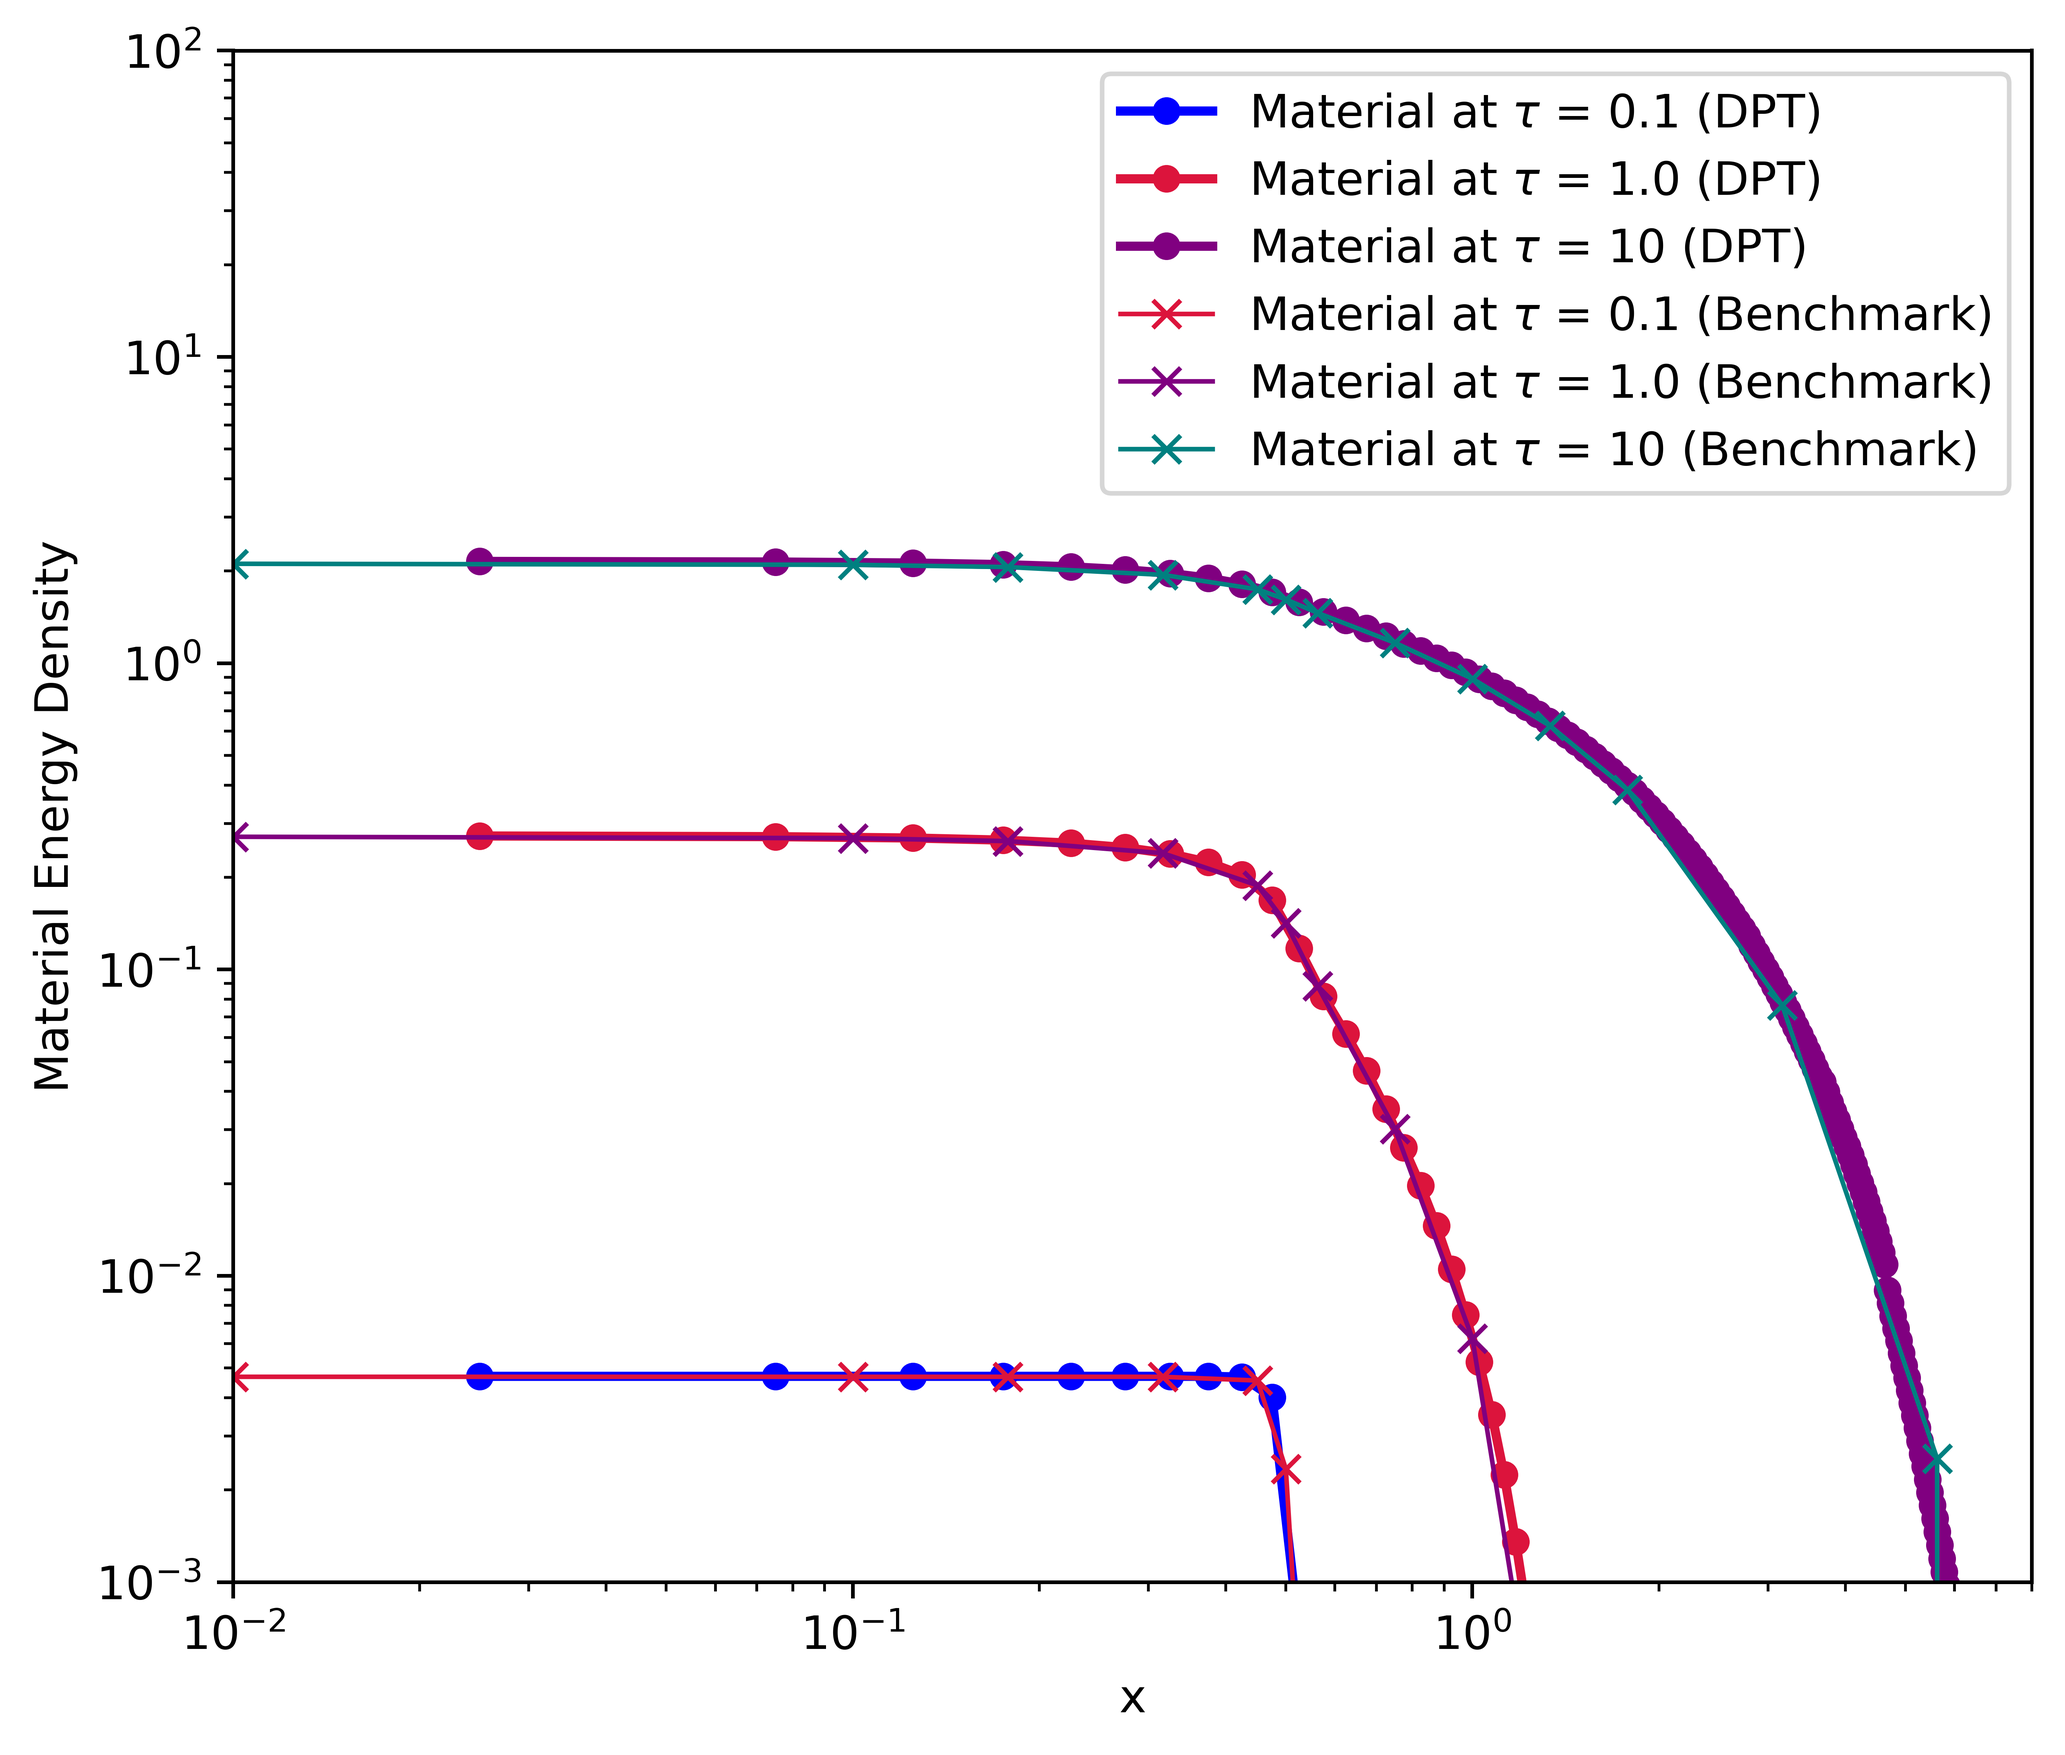
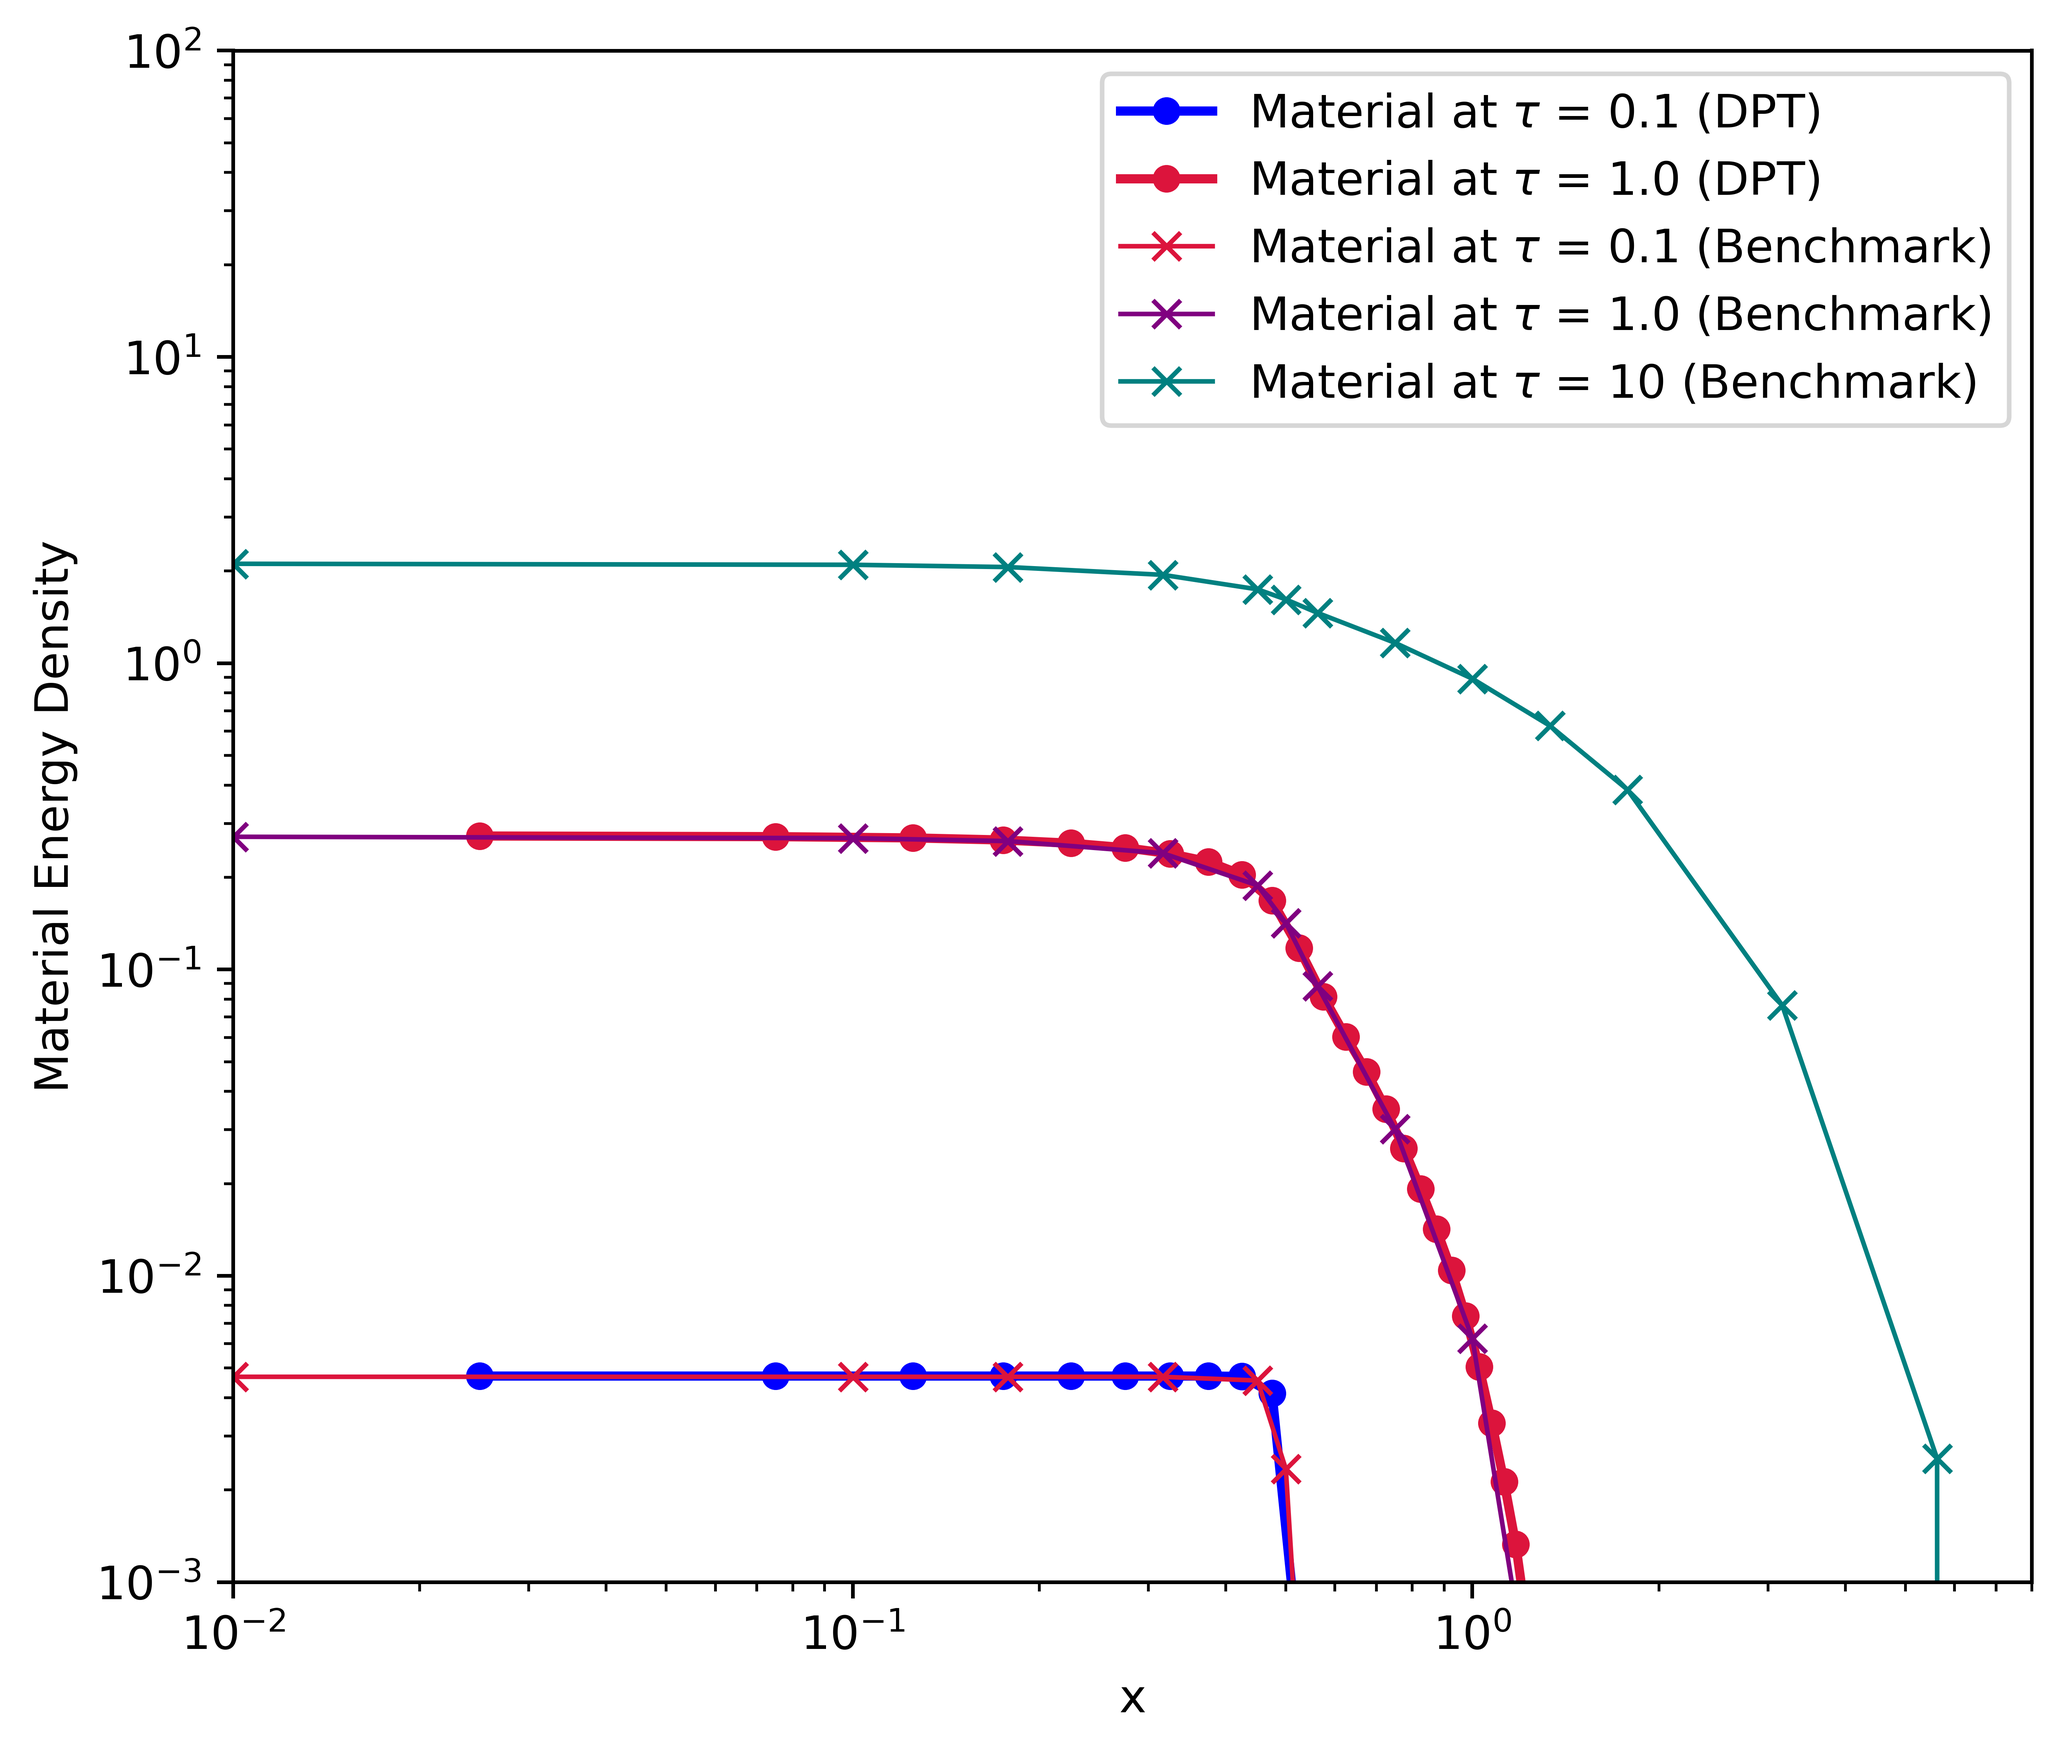
new scattering method

diff --git a/python/src/imc_track.py b/python/src/imc_track.py
@@ -2,12 +2,106 @@
 
 import numpy as np
 from numba import njit, jit, objmode, gdb
+from scipy.optimize import newton
+import matplotlib.pyplot as plt
 
 import imc_global_mat_data as mat
 import imc_global_mesh_data as mesh
 import imc_global_part_data as ptcl
 import imc_global_phys_data as phys
 import imc_global_time_data as time
+
+@njit
+def brent_solver(f, a, b, tol=1e-5, max_iter=100):
+    """
+    Brent's Method for finding roots of a scalar function.
+
+    Parameters:
+        f (function): The function for which the root is sought.
+        a (float): Lower bound of the initial bracket.
+        b (float): Upper bound of the initial bracket.
+        tol (float): Tolerance for convergence.
+        max_iter (int): Maximum number of iterations.
+
+    Returns:
+        float: The root of the function.
+    """
+    fa = f(a)
+    fb = f(b)
+
+    if fa * fb > 0:
+        raise ValueError("The function must have different signs at a and b.")
+
+    if abs(fa) < abs(fb):
+        a, b = b, a
+        fa, fb = fb, fa
+
+    c, fc = a, fa
+    d = e = b - a  # Distance between a and b
+    for _ in range(max_iter):
+        if fb != 0 and fc != 0 and fa != 0:  # Use inverse quadratic interpolation
+            s = a * fb * fc / ((fa - fb) * (fa - fc)) + \
+                b * fa * fc / ((fb - fa) * (fb - fc)) + \
+                c * fa * fb / ((fc - fa) * (fc - fb))
+        else:  # Fall back to secant method
+            s = b - fb * (b - a) / (fb - fa)
+
+        # Conditions to accept the interpolation point
+        cond1 = not (a < s < b if a < b else b < s < a)
+        cond2 = abs(s - b) >= abs(b - c) / 2
+        cond3 = abs(s - b) >= abs(c - d) / 2 if e != d else False
+        cond4 = abs(b - c) < tol
+
+        if cond1 or cond2 or cond3 or cond4:
+            # Bisection step
+            s = (a + b) / 2
+            d = e = b - a
+
+        fs = f(s)
+        d, e = e, d  # Update step sizes
+
+        # Update points for next iteration
+        c, fc = b, fb
+        if fa * fs < 0:
+            b, fb = s, fs
+        else:
+            a, fa = s, fs
+
+        if abs(fb) < abs(fa):
+            a, b = b, a
+            fa, fb = fb, fa
+
+        # Check convergence
+        if abs(b - a) < tol or abs(fb) < tol:
+            return b
+
+    raise RuntimeError("Brent's method did not converge.")
+
+@njit
+def p_x_t_solve(dx, x_0, x_1, x, t, t_0, t_1, dt, X_s, T_s):
+    @njit
+    def f(chi):
+        numerator = 1.0 - chi * x_0 + np.exp(chi * dx) * (chi * x_1 - 1.0)
+        denominator = chi * (np.exp(chi * dx) - 1.0)
+        return numerator / denominator - X_s
+
+    @njit
+    def g(tau):
+        numerator = 1.0 - tau * t_0 + np.exp(tau * dt) * (tau * t_1 - 1.0)
+        denominator = tau * (np.exp(tau * dt) - 1.0)
+        return numerator / denominator - T_s
+
+    # Solve for chi using Brent's method
+    chi = brent_solver(f, -1e6, 1e6, tol=1e-3, max_iter=1000000)
+
+    # Solve for tau using Brent's method
+    tau = brent_solver(g, -1e6, 1e6, tol=1e-3, max_iter=1000000)
+
+    # Solve for P
+    P = chi * tau * (np.exp(chi * (x - x_0)) * np.exp(tau * (t - t_0))) / \
+        ((np.exp(chi * dx) - 1.0) * (np.exp(tau * dt) - 1.0))
+    return P
+
 
 
 def run_random():
@@ -140,6 +234,8 @@ def run(n_particles, particle_prop, nrgdep, nrgscattered, current_time):
     """Advance particles over a time-step, including implicit scattering."""
     nrgdep[:] = 0.0
     nrgscattered[:] = 0.0
+    xEs = np.zeros(mesh.ncells, dtype=np.float64)
+    tEs = np.zeros(mesh.ncells, dtype=np.float64)
     # Optimizations
     endsteptime = current_time + time.dt
     mesh_nodepos = mesh.nodepos
@@ -215,6 +311,16 @@ def run(n_particles, particle_prop, nrgdep, nrgscattered, current_time):
                 particle_prop[iptcl, 5] = -1.0
                 break
             #print(f'nrgdep = {nrgdep[:10]}')
+            # Calculate the average length of scatter
+            average_scatter_length = 1 / mesh_sigma_t[icell] * (1 - (1 + mesh_sigma_t[icell] * dist) * np.exp(-mesh_sigma_t[icell] * dist))/(1 - np.exp(-mesh_sigma_t[icell] * dist))
+            average_position_of_scatter = xpos + mu * average_scatter_length
+            # if iptcl== 0:
+            #     # print(f'average scattering length = {average_scatter_length}')
+            #     # print(f'average position of scatter = {average_position_of_scatter}')
+            average_time_of_scatter = ttt + average_scatter_length / phys_c
+            xEs[icell] += nrg_change * frac_scattered * average_position_of_scatter
+            tEs[icell] += nrg_change * frac_scattered * average_time_of_scatter
+
             # Advance position, time, and energy
             xpos += mu * dist
             ttt += dist * phys_invc
@@ -260,8 +366,17 @@ def run(n_particles, particle_prop, nrgdep, nrgscattered, current_time):
     epsilon = 1e-5
     iterations = 0
     converged = False
-    
 
+    # Calculate zone-wise average position of scatter and average time of scatter
+    X_s = np.zeros(mesh.ncells, dtype=np.float64)
+    T_s = np.zeros(mesh.ncells, dtype=np.float64)
+    print(f'xEs = {xEs[0]}')
+    print(f'nrgscattered = {nrgscattered[:10]}')
+    print(f'nrgscattered last 10 = {nrgscattered[-10:]}')
+    X_s = xEs[:] / nrgscattered[:]
+    T_s = tEs[:] / nrgscattered[:]
+    
+    
     # initialize nrgdep and nrgscattered variables
     while not converged:
         scattered_particles = np.zeros((ptcl.max_array_size, 7), dtype=np.float64)
@@ -270,11 +385,12 @@ def run(n_particles, particle_prop, nrgdep, nrgscattered, current_time):
         old_nrgscattered = np.zeros(mesh.ncells, dtype=np.float64)
         old_nrgscattered[:] = nrgscattered[:]
         # Create source particles based on energy scattered in each cell
+        P_tally = np.zeros(mesh.ncells, dtype=np.float64)
         for icell in range(mesh.ncells):
             # Create position, angle, time arrays
             x_positions = mesh.nodepos[icell] + (np.arange(ptcl.Nx) + 0.5) * mesh.dx / ptcl.Nx
             angles = -1.0 + (np.arange(ptcl.Nmu) + 0.5) * 2 / ptcl.Nmu
-            emission_times = time.time + (np.arange(ptcl.Nt) + 0.5) * time.dt / ptcl.Nt
+            emission_times = current_time + (np.arange(ptcl.Nt) + 0.5) * time.dt / ptcl.Nt
             # Assign energy-weights
             n_source_ptcls = ptcl.Nx * ptcl.Nmu * ptcl.Nt
             nrg = nrgscattered[icell] / n_source_ptcls
@@ -285,6 +401,9 @@ def run(n_particles, particle_prop, nrgdep, nrgscattered, current_time):
                 for mu in angles:
                     for ttt in emission_times:
                         if n_scattered_particles < ptcl.max_array_size:
+                            P = p_x_t_solve(mesh.dx, mesh_nodepos[icell], mesh_nodepos[icell + 1], xpos, ttt, current_time, current_time + time.dt, time.dt, X_s[icell], T_s[icell])
+                            P_tally[icell] += P
+                            
                             idx = n_scattered_particles
                             scattered_particles[idx, 0] = icell  # origin
                             scattered_particles[idx, 1] = ttt  # time
@@ -292,13 +411,25 @@ def run(n_particles, particle_prop, nrgdep, nrgscattered, current_time):
                             scattered_particles[idx, 3] = xpos  # position
                             scattered_particles[idx, 4] = mu  # direction
                             scattered_particles[idx, 5] = nrg  # energy
-                            scattered_particles[idx, 6] = startnrg  # start energy
+                            scattered_particles[idx, 6] = P  # start energy
                             n_scattered_particles += 1
                         else:
                             print("Warning: Maximum number of scattered particles reached!")
 
-        # Reset mesh.nrgscattered
+        # Put correct energy
+        for i in range(n_scattered_particles):
+            # Get P and icell
+            icell = int(scattered_particles[i, 2])
+            P = scattered_particles[i, 6]
+            # Set particle energy
+            nrg = nrgscattered[icell] * P / P_tally[icell]
+            # Set particle startnrg
+            scattered_particles[idx, 6] = nrg  # start energy
 
+        # Reset nrgscattered
+        nrgscattered[:] = 0.0
+        xEs[:] = 0.0
+        tEs[:] = 0.0
         # Loop over scattered particles
         for iptcl in range(n_scattered_particles):
             
@@ -336,9 +467,16 @@ def run(n_particles, particle_prop, nrgdep, nrgscattered, current_time):
                 nrgscattered[icell] += nrg_change * frac_scattered
 
                 if newnrg == 0.0:
-                                # Flag particle for later destruction
-                                scattered_particles[iptcl, 5] = -1.0
-                                break
+                    # Flag particle for later destruction
+                    scattered_particles[iptcl, 5] = -1.0
+                    break
+
+                # Calculate the average length of scatter
+                average_scatter_length = 1 / mesh_sigma_t[icell] * (1 - (1 + mesh_sigma_t[icell] * dist) * np.exp(-mesh_sigma_t[icell] * dist))/(1 - np.exp(-mesh_sigma_t[icell] * dist))
+                average_position_of_scatter = xpos + mu * average_scatter_length
+                average_time_of_scatter = ttt + average_scatter_length / phys_c
+                xEs += nrg_change * frac_scattered * average_position_of_scatter
+                tEs += nrg_change * frac_scattered * average_time_of_scatter
                 # Advance position and time
                 xpos += mu * dist
                 ttt += dist * phys_invc
@@ -379,6 +517,8 @@ def run(n_particles, particle_prop, nrgdep, nrgscattered, current_time):
                     scattered_particles[iptcl, 5] = nrg
                     break
         
+        X_s = xEs[:] / nrgscattered[:]
+        T_s = tEs[:] / nrgscattered[:]
         iterations += 1
         # Now we need to move all the processed scattered particles to the global particle array
         # Calculate how many particles we are going to add

diff --git a/python/src/imc_opcon.py b/python/src/imc_opcon.py
@@ -199,15 +199,24 @@ def SuOlson1997(output_file):
                         print("at actual time {:24.16f}".format(time.time))
                         
                         fname.write("Time = {:24.16f}\n".format(time.time).encode())
+                        
+                        # Debugging before dumping
+                        print("Dumping cellpos...")
+                        print(mesh.cellpos)
                         pickle.dump(mesh.cellpos, fname, 0)
+                        
+                        print("Dumping matnrgdens...")
+                        print(mesh.matnrgdens)
                         pickle.dump(mesh.matnrgdens, fname, 0)
+                        
+                        print("Dumping radnrgdens...")
+                        print(mesh.radnrgdens)
                         pickle.dump(mesh.radnrgdens, fname, 0)
                         plottimenext = plottimenext + 1
     except KeyboardInterrupt:
         print("Calculation interrupted. Saving data...")
     finally:
         print("Data saved successfully.")
-
 
 
 def marshak_wave(output_file):

diff --git a/python/inputs/makefig_SuOlson1997-case1.py b/python/inputs/makefig_SuOlson1997-case1.py
@@ -37,7 +37,9 @@ times = [r"$\tau$ = 0.1", r"$\tau$ = 1.0", r"$\tau$ = 10", r"$\tau$ = 100"]
 # Loop to read and plot data from the output file
 colors = ['blue', 'crimson', 'purple', 'black']  # List of colors for each iteration
 
-for i in range(3):
+# Open the output file
+fname = open("SuOlson1997-case1-test2.out", "rb")
+for i in range(2):
     time_line = fname.readline().decode().strip()  # Read the time line
     
     xdata = pickle.load(fname)      # cellpos
@@ -74,7 +76,7 @@ plt.figure(figsize=(7, 6))
 fname = open("SuOlson1997-case1-test2.out", "rb")
 
 # Loop to read and plot data from the output file for material
-for i in range(3):
+for i in range(2):
     time_line = fname.readline().decode().strip()  # Read the time line again
     
     xdata = pickle.load(fname)      # cellpos

diff --git a/python/inputs/makefig_SuOlson1997-case2.py b/python/inputs/makefig_SuOlson1997-case2.py
@@ -27,7 +27,7 @@ mat_benchtwo = [[0.00242, 0.00242, 0.00242, 0.00242, 0.00235, 0.00121, 0.00003, 
 plt.figure(figsize=(7, 6))
 
 # Open the output file
-fname = open("SuOlson1997-case2.out", "rb")
+fname = open("SuOlson1997-case2-test2.out", "rb")
 
 # Times corresponding to data in the output file
 times = [r"$\tau$ = 0.1", r"$\tau$ = 1.0", r"$\tau$ = 10", r"$\tau$ = 100"]
@@ -69,7 +69,7 @@ fname.close()
 plt.figure(figsize=(7, 6))
 
 # Open the output file again to read the data for material energy density
-fname = open("SuOlson1997-case2.out", "rb")
+fname = open("SuOlson1997-case2-test2.out", "rb")
 
 # Loop to read and plot data from the output file for material
 for i in range(3):
